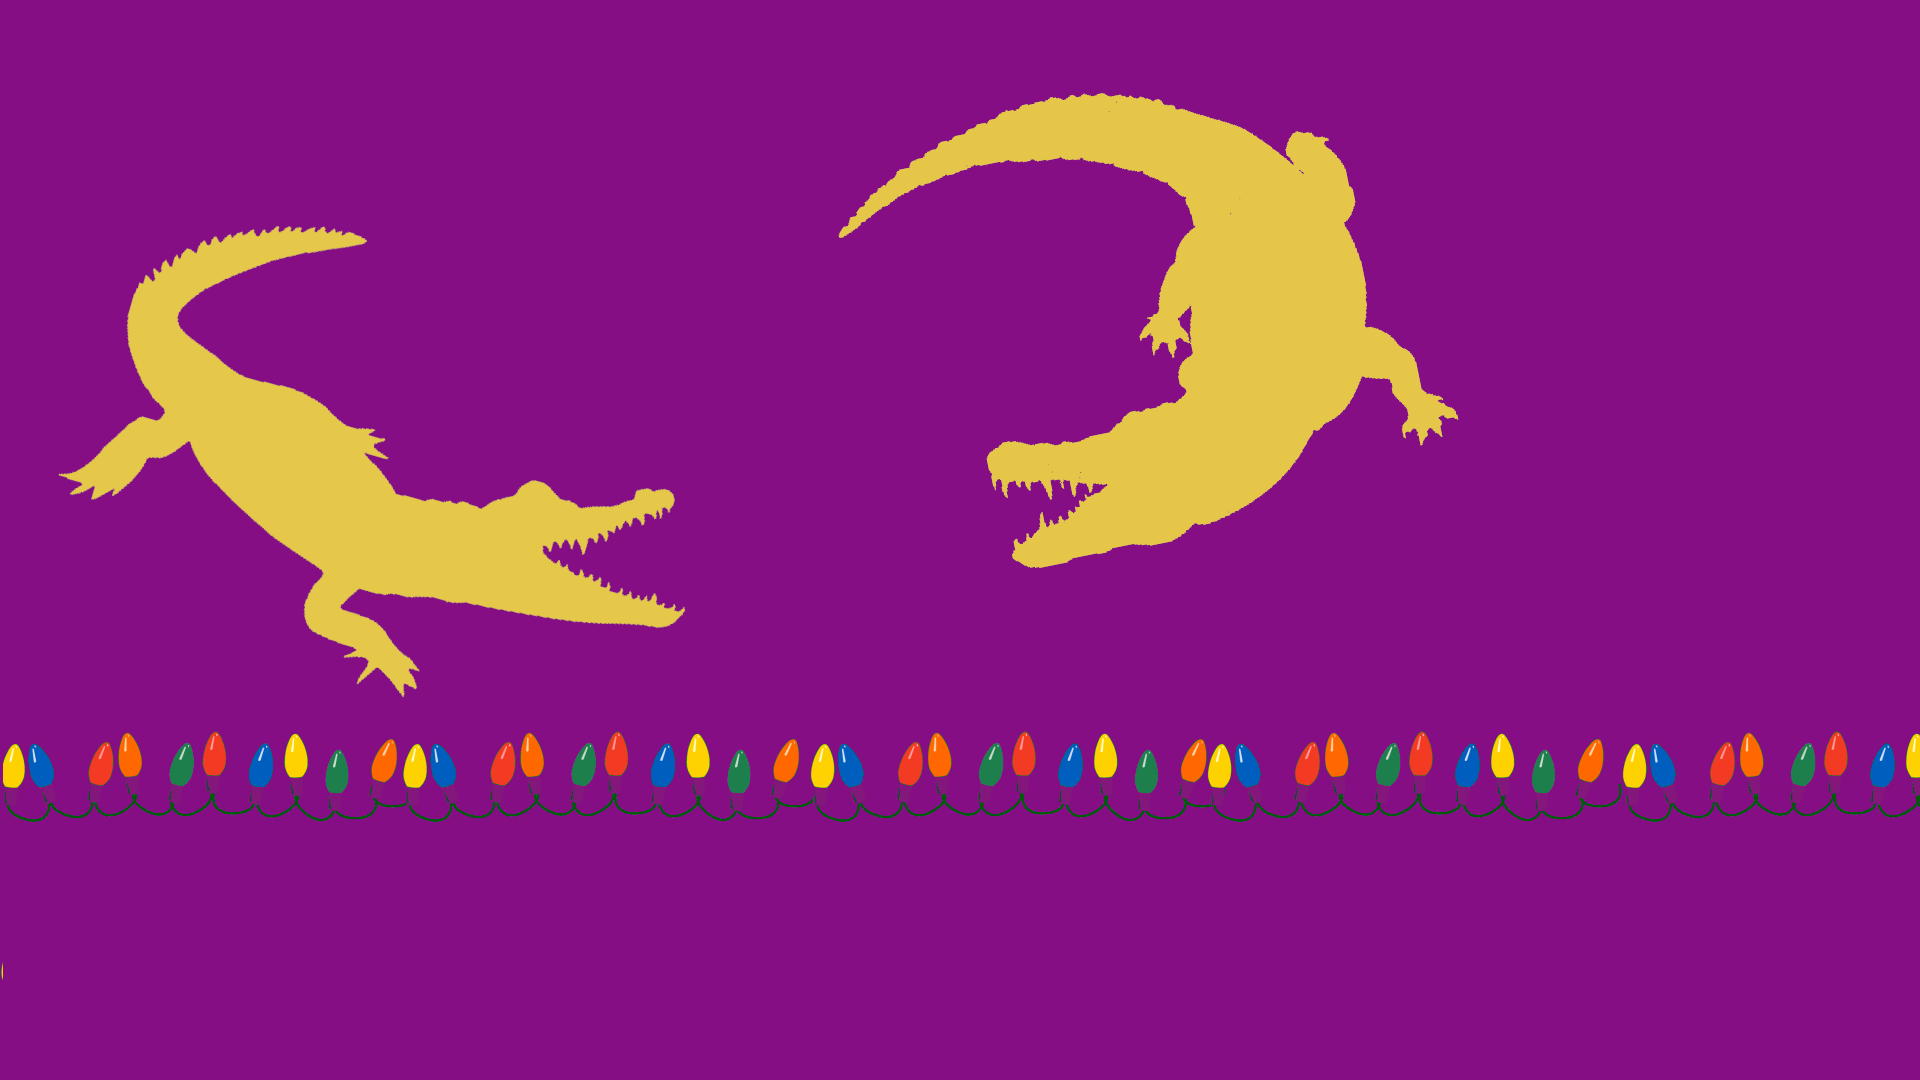
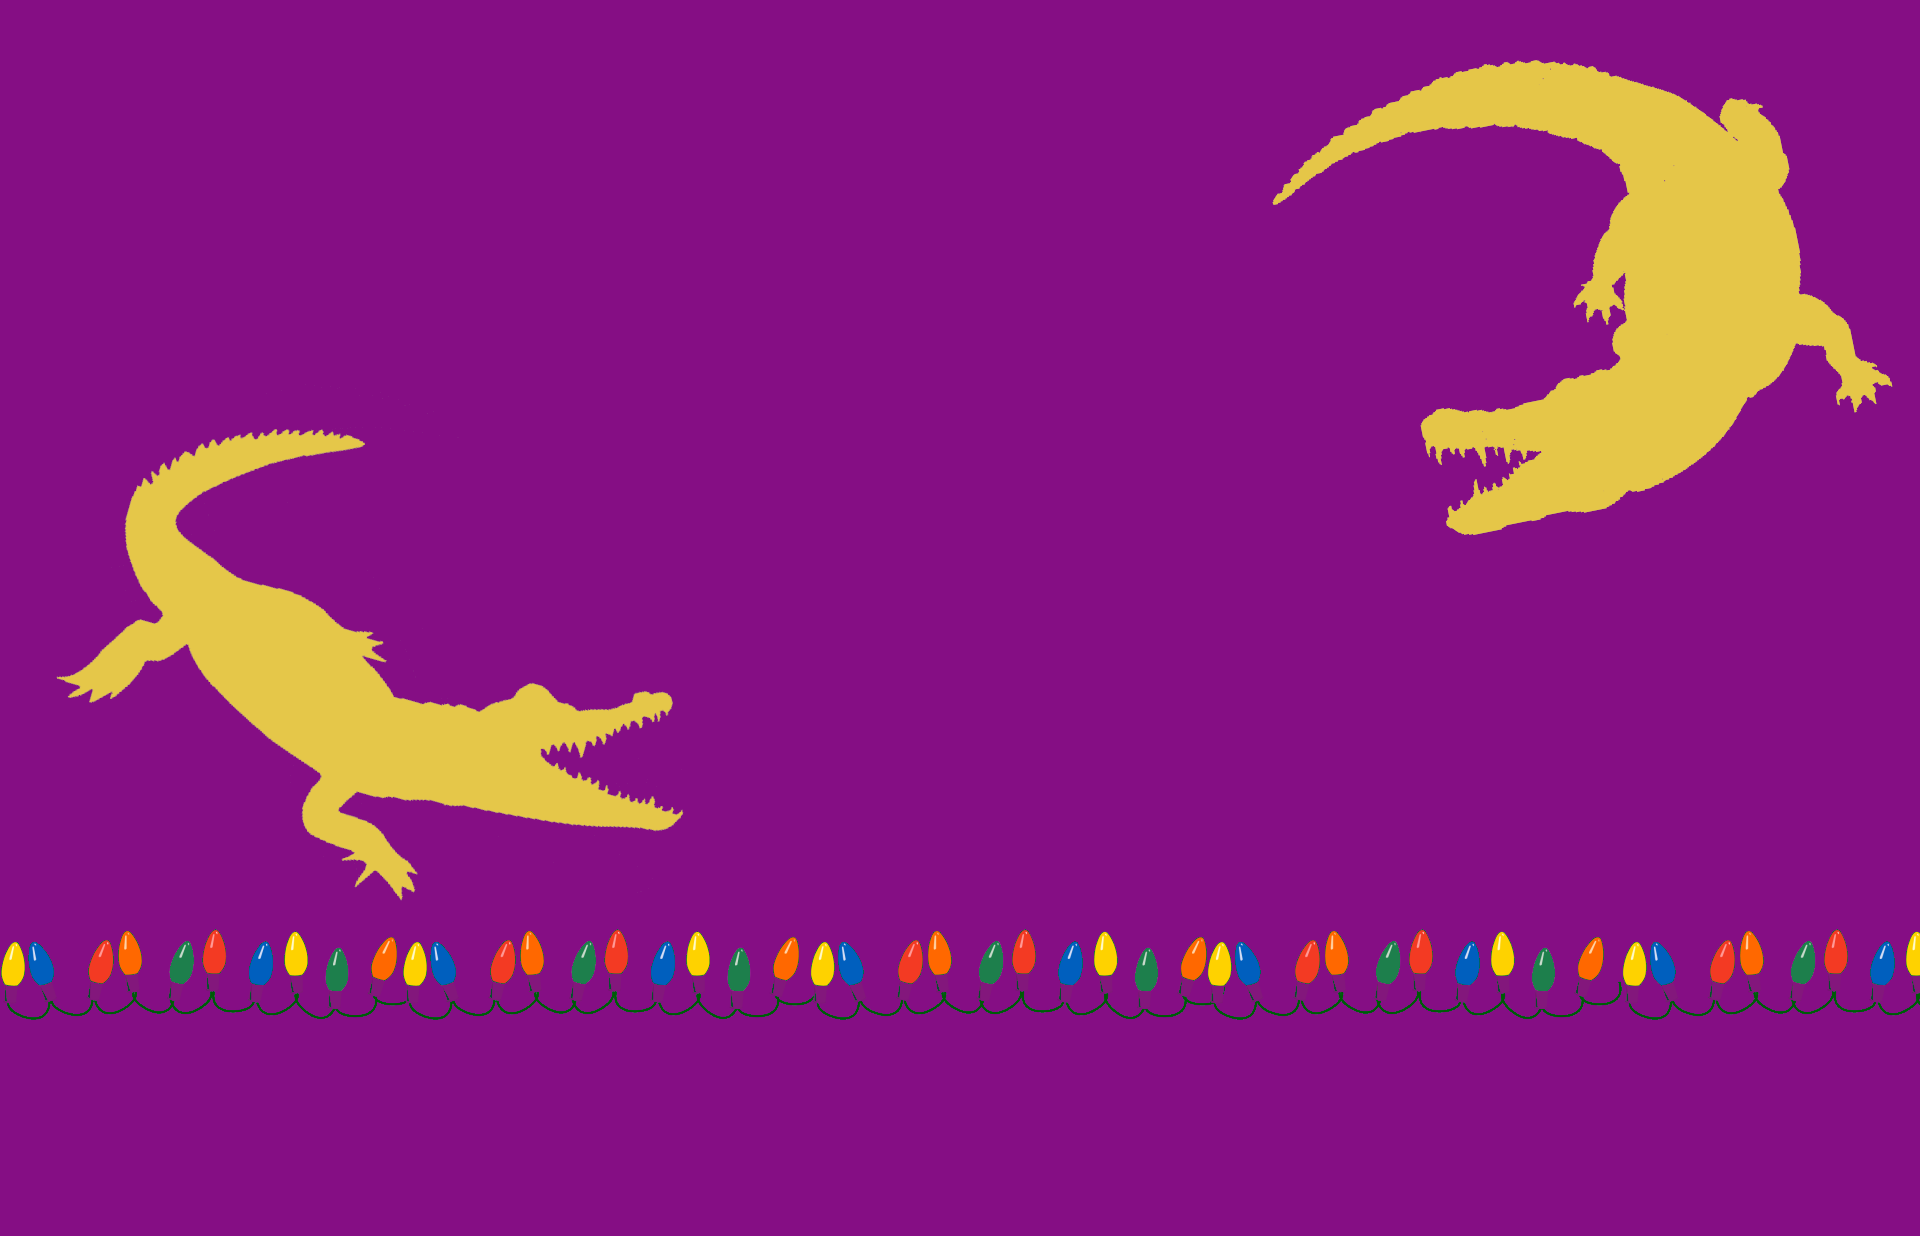
why

Changed region(s): [[0.0, 0.2139, 1.0, 0.825], [0.4375, 0.0306, 1.0, 0.55]]

diff --git a/client/src/pages/Update.js b/client/src/pages/Update.js
@@ -27,6 +27,8 @@ const Update = ({ dispatch, isUpdateOpen, collegeYear, username, password, age,
 
     const bgGround = {
         backgroundImage: 'url(' + img2 + ')',
+        width: '1920px',
+        height:'1080px',
     };
 
     function goProfile(e) {
@@ -48,7 +50,7 @@ const Update = ({ dispatch, isUpdateOpen, collegeYear, username, password, age,
                 preference,
                 info,
             })
-            .then(history.push("/profile"))
+                .then(history.push("/profile"))
         } else { setSuccess('Require field(s) left empty.'); }
     }
     return (
@@ -57,8 +59,10 @@ const Update = ({ dispatch, isUpdateOpen, collegeYear, username, password, age,
             <SnowStorm />
             <br /><br />
             <Container className="con">
-                <h4>Update Profile</h4><br />
+
+                <h4>Update Profile</h4>
                 <Upload />
+
                 <Form form>
                     <Row>
                         <Col md={20}>
@@ -75,7 +79,7 @@ const Update = ({ dispatch, isUpdateOpen, collegeYear, username, password, age,
                     <Row>
                         <Col md={20}>
                             <Label className="ud" for="exampleAddress">Password</Label>
-                            <Input type='text' value={password} onChange={e => dispatch(setPassword(e.target.value))} placeholder='...' />
+                            <Input type='password' value={password} onChange={e => dispatch(setPassword(e.target.value))} placeholder='...' />
                         </Col>
                     </Row>
                     <Row>

diff --git a/client/src/pages/Random.js b/client/src/pages/Random.js
@@ -126,7 +126,12 @@ const Random = ({ dispatch, username, password, age, email, major, addtion, firs
       {listUsers()}
       <br />
       <Label className="ud">&emsp;Active gators: {activeUsers}</Label><br />
-      <Grid container spacing={24} align-content="center" justify="center">
+      <Grid container 
+            spacing={0}
+            direction="column"
+            alignItems="center"
+            justify="center"
+            style={{ minHeight: '100vh'}}>
         {/* Card #1 */}
         <Grid item sm={4}>
           <Card className={classes.card}>

diff --git a/client/src/pages/AddUserInfo.js b/client/src/pages/AddUserInfo.js
@@ -13,7 +13,11 @@ import { setCollegeYear, setInfo, setGender, setListed, setPreference, setPronou
 const AddUserInfo = ({ dispatch, username, isLoggedIn, collegeYear, pronoun, info, gender, listed, preference }) => {
     const [success, setSuccess] = useState('');
 
-    const bgGround = { backgroundImage: 'url(' + img2 + ')', };
+    const bgGround = {
+        backgroundImage: 'url(' + img2 + ')',
+        width: '1920px',
+        height:'1080px',
+};
 
     function goProfile(e) {
         console.log('CYEAR' + collegeYear);

diff --git a/client/src/pages/Home.js b/client/src/pages/Home.js
@@ -29,7 +29,11 @@ const Home = ({ dispatch, username, password, age, email, firstName, lastName, i
     const [createBox, setCreateBox] = useState(false);
     const [fadeIn, setFadeIn] = useState(true);
 
-    const bgGround = { backgroundImage: 'url(' + img2 + ')', };
+    const bgGround = {
+        backgroundImage: 'url(' + img2 + ')',
+        height:'100vh',
+        // width: '100vh',
+ };
     const goLogin = (e) => {
         setLoginBox(true);
         setFadeIn(false);

diff --git a/client/src/pages/css/Profile.css b/client/src/pages/css/Profile.css
@@ -37,7 +37,7 @@
     font-size: 16px; /* 40px/16=2.5em */
     color:white;
     font-weight: bold;
-    text-decoration: underline;
+    /* text-decoration: underline; */
     font-family: "Microsoft Yahei";
 
     /* font-family: arial,"Hiragino Sans GB","Microsoft Yahei",sans-serif; */

diff --git a/client/src/pages/Profile.js b/client/src/pages/Profile.js
@@ -30,7 +30,7 @@ const Profile = ({dispatch, isUpdateOpen, username, password, age, email, major,
 
   const bgGround = {
     backgroundImage: 'url(' + img2 + ')',
-    height:'1080px',
+    height:'850px',
   };
 
   const openNav = ()=> {
